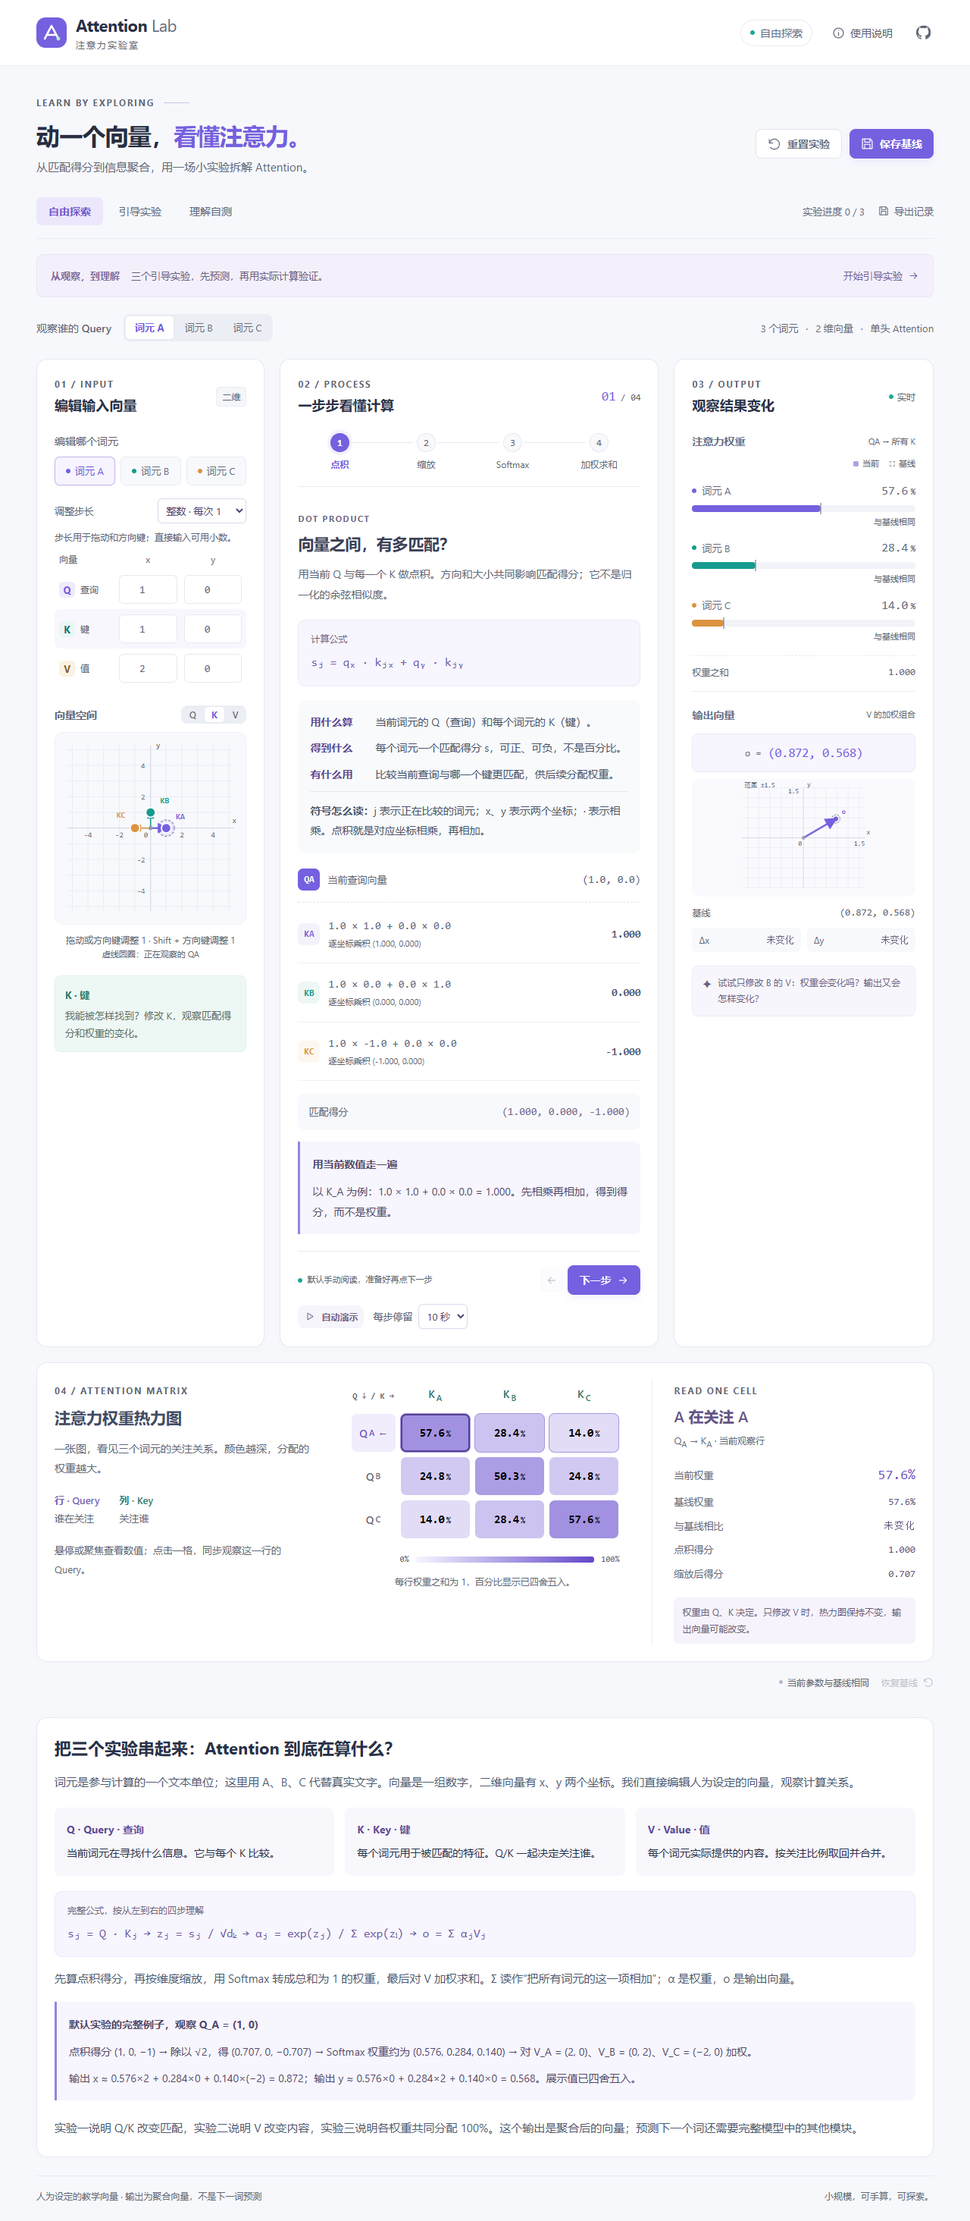
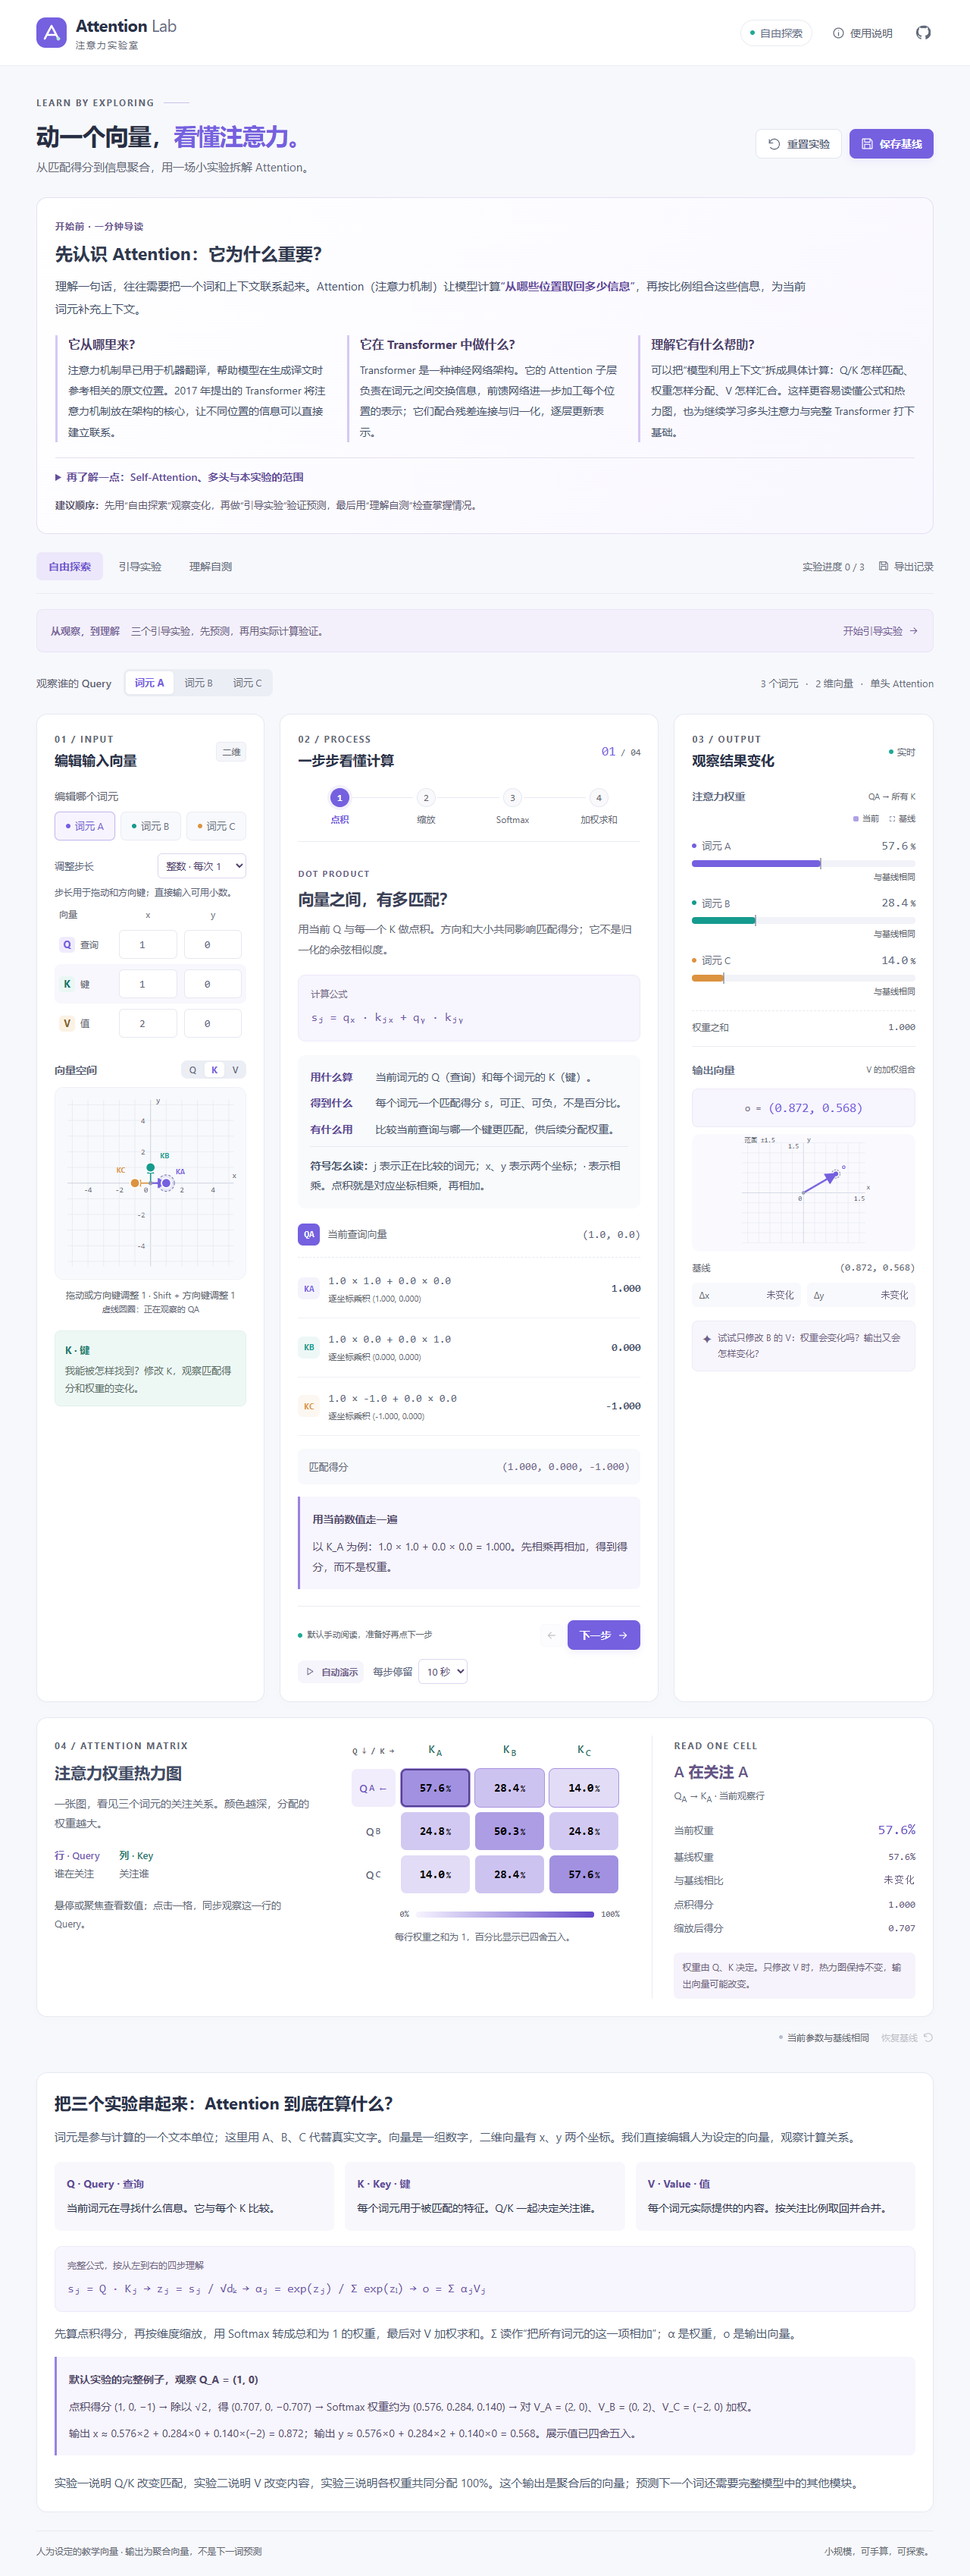
feat: introduce attention background before learning modes

diff --git a/web/components/LearningIntroduction.tsx b/web/components/LearningIntroduction.tsx
@@ -1,0 +1,23 @@
+export function LearningIntroduction() {
+  return <section className="learning-introduction" aria-labelledby="attention-introduction-title">
+    <div className="introduction-heading"><span className="eyebrow">开始前 · 一分钟导读</span><h2 id="attention-introduction-title">先认识 Attention：它为什么重要？</h2></div>
+    <p className="introduction-lead">理解一句话，往往需要把一个词和上下文联系起来。Attention（注意力机制）让模型计算<strong>“从哪些位置取回多少信息”</strong>，再按比例组合这些信息，为当前词元补充上下文。</p>
+    <div className="introduction-cards">
+      <article><h3>它从哪里来？</h3><p>注意力机制早已用于机器翻译，帮助模型在生成译文时参考相关的原文位置。2017 年提出的 Transformer 将注意力机制放在架构的核心，让不同位置的信息可以直接建立联系。</p></article>
+      <article><h3>它在 Transformer 中做什么？</h3><p>Transformer 是一种神经网络架构。它的 Attention 子层负责在词元之间交换信息，前馈网络进一步加工每个位置的表示；它们配合残差连接与归一化，逐层更新表示。</p></article>
+      <article><h3>理解它有什么帮助？</h3><p>可以把“模型利用上下文”拆成具体计算：Q/K 怎样匹配、权重怎样分配、V 怎样汇合。这样更容易读懂公式和热力图，也为继续学习多头注意力与完整 Transformer 打下基础。</p></article>
+    </div>
+    <details className="introduction-details"><summary>再了解一点：Self-Attention、多头与本实验的范围</summary>
+      <div className="introduction-more">
+        <h3>Self-Attention 是什么？</h3><p>Self-Attention（自注意力）的 Q、K、V 来自同一序列的表示，词元可以从这条序列中的其他位置取回信息。原始 Transformer 的解码器还使用跨注意力：用解码器的查询去读取编码器提供的信息。</p>
+        <h3>Attention 是完整模型中的一个环节</h3>
+        <ol className="introduction-flow" aria-label="原始 Transformer 编码器层的简化信息流"><li>输入的词元向量</li><li className="attention-flow-focus">Attention<span>跨位置交换信息</span></li><li>前馈网络<span>加工每个位置的表示</span></li><li>更新后的词元向量</li></ol>
+        <p className="introduction-flow-note">这是编码器层的简化示意，省略了残差连接与归一化等步骤。真实模型还需要位置相关信息，并堆叠多层；解码器的自注意力会用遮罩限制对未来位置的访问。</p>
+        <h3>为什么先学这个小实验？</h3><p>本实验用三个词元、二维向量和单个注意力头，把一次“匹配 → 分配比例 → 聚合内容”展开。真实 Transformer 会学习 Q/K/V 的投影，并用多个注意力头从不同角度聚合信息；先理解一个头，更容易理解这些扩展。</p>
+        <p>这里的 A、B、C 和 Q/K/V 都是人为设定的教学数据，没有训练语言模型。输出是聚合向量，得到下一个词还需要其他模块；热力图显示分配比例，单看它不足以解释模型的全部行为。</p>
+        <p className="introduction-sources">背景出处，可选阅读：<a href="https://arxiv.org/abs/1409.0473" target="_blank" rel="noreferrer">早期机器翻译注意力研究（2014）</a><span> · </span><a href="https://arxiv.org/html/1706.03762v7" target="_blank" rel="noreferrer">Transformer 原论文（2017）</a>。</p>
+      </div>
+    </details>
+    <p className="introduction-route"><b>建议顺序：</b>先用“自由探索”观察变化，再做“引导实验”验证预测，最后用“理解自测”检查掌握情况。</p>
+  </section>;
+}

diff --git a/web/introduction.css b/web/introduction.css
@@ -1,0 +1,35 @@
+.learning-introduction { margin: 0 0 24px; padding: 24px; border: 1px solid #e5dff3; border-radius: 14px; background: linear-gradient(135deg, #fff, #f9f7ff); color: #44506a; }
+.introduction-heading .eyebrow { color: #6b588e; letter-spacing: 1px; }
+.introduction-heading h2 { margin-top: 8px; font-size: 23px; color: #30394f; }
+.introduction-lead { margin-top: 12px; font-size: 15px; line-height: 1.95; max-width: 1000px; }
+.introduction-lead strong { color: #654b9d; font-weight: 600; }
+.introduction-cards { display: grid; grid-template-columns: repeat(3, minmax(0, 1fr)); gap: 20px; margin-top: 20px; }
+.introduction-cards article { padding-left: 14px; border-left: 3px solid #d6c8f4; }
+.introduction-cards h3, .introduction-more h3 { font-size: 16px; font-weight: 650; color: #4d416b; }
+.introduction-cards p { font-size: 14px; line-height: 1.95; margin-top: 8px; }
+.introduction-details { margin-top: 20px; border-top: 1px solid #e5dff1; padding-top: 14px; }
+.introduction-details summary { color: #654e9a; font-size: 14px; font-weight: 600; cursor: pointer; width: fit-content; max-width: 100%; }
+.introduction-details summary:focus-visible { outline: 3px solid #aa9ae8; outline-offset: 4px; border-radius: 3px; }
+.introduction-more { padding-top: 5px; }
+.introduction-more h3 { margin-top: 18px; }
+.introduction-more p { font-size: 14px; line-height: 1.95; margin-top: 9px; }
+.introduction-flow { display: grid; grid-template-columns: repeat(4, minmax(0, 1fr)); gap: 24px; list-style: none; padding: 0; margin: 15px 0; }
+.introduction-flow li { position: relative; display: flex; justify-content: center; flex-direction: column; padding: 13px 10px; min-height: 76px; border: 1px solid #e0deea; border-radius: 8px; text-align: center; font-size: 14px; background: #fff; }
+.introduction-flow li + li:before { content: '→'; position: absolute; left: -23px; top: calc(50% - 12px); width: 22px; color: #796799; }
+.introduction-flow li span { font-size: 12px; margin-top: 4px; }
+.introduction-flow .attention-flow-focus { background: #eee7fc; border-color: #c1abe9; color: #614291; font-weight: 650; }
+.introduction-more .introduction-flow-note { color: #5a6274; font-size: 13px; }
+.introduction-sources a { color: #624991; text-decoration: underline; text-underline-offset: 3px; }
+.introduction-route { margin-top: 15px; font-size: 13px; line-height: 1.9; color: #5b5670; }
+@media (max-width: 700px) {
+  .learning-introduction { padding: 20px; }
+  .introduction-heading h2 { font-size: 20px; line-height: 1.6; }
+  .introduction-cards { grid-template-columns: 1fr; gap: 15px; margin-top: 16px; }
+  .introduction-cards h3 { font-size: 15px; }
+  .introduction-cards p { margin-top: 5px; }
+  .introduction-flow { grid-template-columns: 1fr; gap: 23px; }
+  .introduction-flow li { min-height: 65px; }
+  .introduction-flow li + li:before { content: '↓'; left: calc(50% - 11px); top: -24px; }
+  .introduction-lead { font-size: 14px; }
+  .introduction-more .introduction-sources { font-size: 12px; }
+}

diff --git a/web/App.tsx b/web/App.tsx
@@ -11,6 +11,7 @@ import { GuidedLessons } from './components/GuidedLessons.tsx';
 import { Assessment } from './components/Assessment.tsx';
 import { AttentionHeatmap } from './components/AttentionHeatmap.tsx';
 import { ConceptSummary } from './components/ConceptSummary.tsx';
+import { LearningIntroduction } from './components/LearningIntroduction.tsx';
 import { LESSONS, createLessonInput, getLesson } from './learning/lessons.ts';
 import type { LessonId } from './learning/lessons.ts';
 import { addAssessmentRecord, addLessonRecord, completedLessons, exportProgress } from './learning/progress.ts';
@@ -120,6 +121,7 @@ export function App() {
       <div className="page-intro"><div><div className="intro-label"><span className="eyebrow">LEARN BY EXPLORING</span><span className="label-line" /></div><h1>动一个向量，<span>看懂注意力。</span></h1><p>从匹配得分到信息聚合，用一场小实验拆解 Attention。</p></div>
         {mode !== 'assessment' && <div className="intro-actions"><button className="button secondary" onClick={resetExperiment}><Icon name="reset" />重置实验</button><button className="button primary" disabled={mode === 'guided'} onClick={() => { dispatch({ type: 'save-baseline' }); setAnnouncement('已保存当前参数作为对比基线'); }}><Icon name="save" size={17} />保存基线</button></div>}
       </div>
+      <LearningIntroduction />
       <div className="learning-navigation"><div className="learning-tabs" role="group" aria-label="学习模式">
         <button aria-pressed={mode === 'free'} className={mode === 'free' ? 'active' : ''} onClick={enterFree}>自由探索</button>
         <button aria-pressed={mode === 'guided'} className={mode === 'guided' ? 'active' : ''} onClick={() => { if (mode !== 'guided') enterGuided(); }}>引导实验</button>

diff --git a/web/main.tsx b/web/main.tsx
@@ -5,6 +5,7 @@ import './styles.css';
 import './learning.css';
 import './heatmap.css';
 import './beginner.css';
+import './introduction.css';
 
 const root = document.getElementById('root');
 if (!root) throw new Error('Application root element is missing.');

diff --git a/docs/development/09-attention-introduction.md b/docs/development/09-attention-introduction.md
@@ -1,0 +1,19 @@
+# 第九次迭代 Attention 背景导读
+
+日期：2026-10-08（Asia/Shanghai）。用户希望在自由探索、引导实验和理解自测之前，介绍 Attention 的背景、它在 Transformer 中的位置和作用，以及学习它的价值。
+
+## 页面内容
+
+新增导读位于页面标题下方、三个学习模式按钮之前。默认展示一段通俗介绍和三块说明，分别回答“从哪里来”“在 Transformer 中做什么”“理解它有什么帮助”，再给出自由探索、引导实验、理解自测的学习顺序。
+
+补充内容使用原生 details/summary 默认折叠，包含自注意力、跨注意力、多头和本实验范围，并用简化信息流突出 Attention 在编码器层中的位置。示意图明确省略残差连接与归一化等步骤，避免被误读为完整架构。桌面使用横向排列，手机改为纵向排列；展开状态在模式切换时保留，支持键盘操作。
+
+引言中的历史与架构说明按[早期机器翻译注意力研究](https://arxiv.org/abs/1409.0473)和[Transformer 原论文](https://arxiv.org/html/1706.03762v7)核对，页面也提供可选阅读链接。人为设定的二维向量、单个注意力头和聚合输出仍明确标注为教学范围。
+
+## 验证
+
+严格类型检查、35 项数学与学习状态测试、构建和默认演示通过。全部 24 项浏览器验收通过，包括实验定位、模式切换、步骤播放、热力图、自测与学习记录兼容。
+
+另外检查 1920、1280、900、390 像素宽度：导读在学习按钮之前，展开和折叠均无横向溢出；Enter 可切换补充说明，切换学习模式不丢失展开状态或改变实验输入，没有页面运行时错误。
+
+已查看[桌面导读截图](../images/introduction.png)和[手机导读截图](../images/introduction-mobile.png)。
